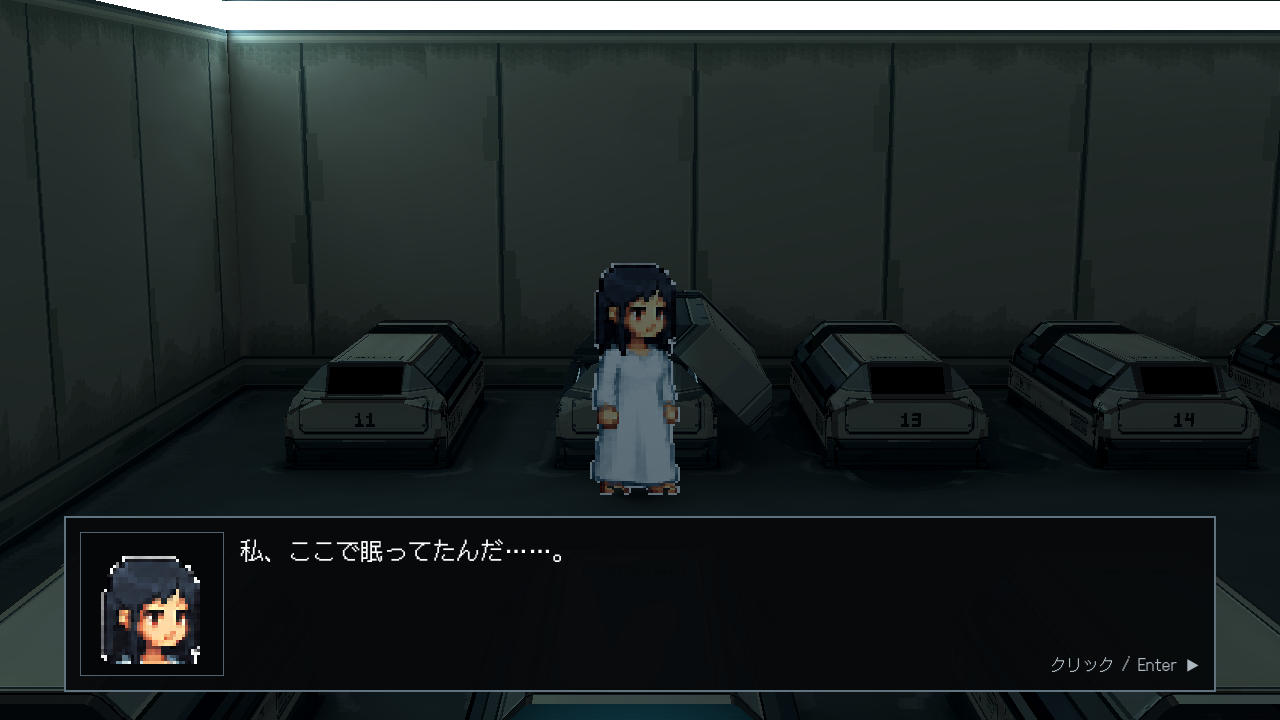
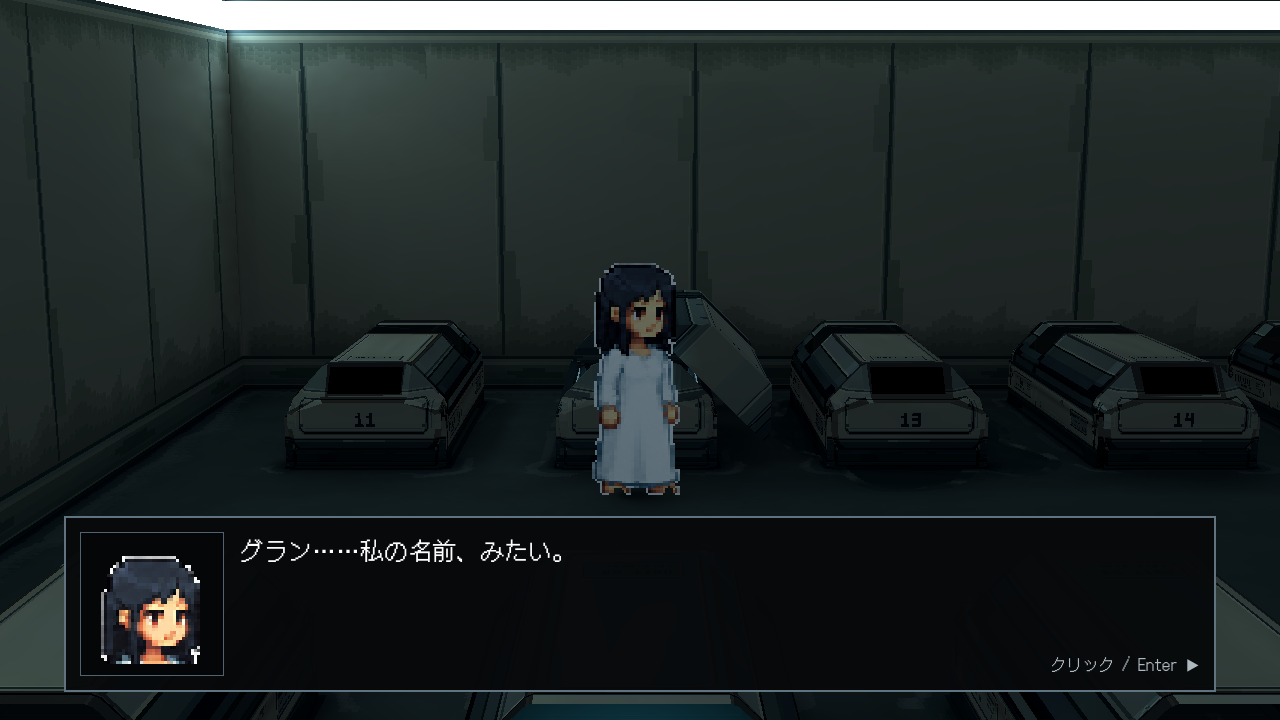
Update protagonist pod information dialogue

diff --git a/docs/art/experiments/room1_door_sensor_r1/README.md b/docs/art/experiments/room1_door_sensor_r1/README.md
@@ -6,7 +6,7 @@
 
 开场自动出现两句「あ……頭、痛い……。」「ここは……どこ？」；Enter 翻页，Esc 可关闭，结束后恢复操作。同一次游戏运行内再次进入不重复播放，新游戏重置后可再播放。
 
-靠近 P12 按 E，可调查主角自己的休眠舱，显示「これ……私？」「私、ここで眠ってたんだ……。」。旧版第二句是对头像外观的反应，当前舱体没有头像，因此改成对自己在舱内休眠的反应。旧版第三句涉及旧编号 4-14-04，与目前 P12 不对应，暂未使用；其他舱和其他物件台词尚未加入。Enter 翻页，Esc 关闭，显示对话时角色移动锁定。
+靠近 P12 按 E，可调查主角自己的休眠舱，显示「情報パネル……？」「グラン……私の名前、みたい。」；P12 屏幕的 NAME 显示「グラン」。之后可考虑在游戏画面上叠加信息面板等调查特写，不移动游戏镜头；当前尚无特写图。其他舱和其他物件台词尚未加入。Enter 翻页，Esc 关闭，显示对话时角色移动锁定。
 
 运行 `scripts/dev/verify_room1_door_sensor_r1.gd`，检查开场台词与不重复播放、无芯片阻挡、扫描先于开门、慢速滑动、门板和碰撞同步、黑色门洞、不能走出、出口按键、门口防夹、离开自动关门、舱体台词及对话锁定，均通过。`capture.gd` 生成 `evidence/` 下的真实 Godot 截图。旧门板仍是占位，扫描线是临时视觉提示，房间静态烘焙没有为动态门更新。正式主场景未切换。
 
